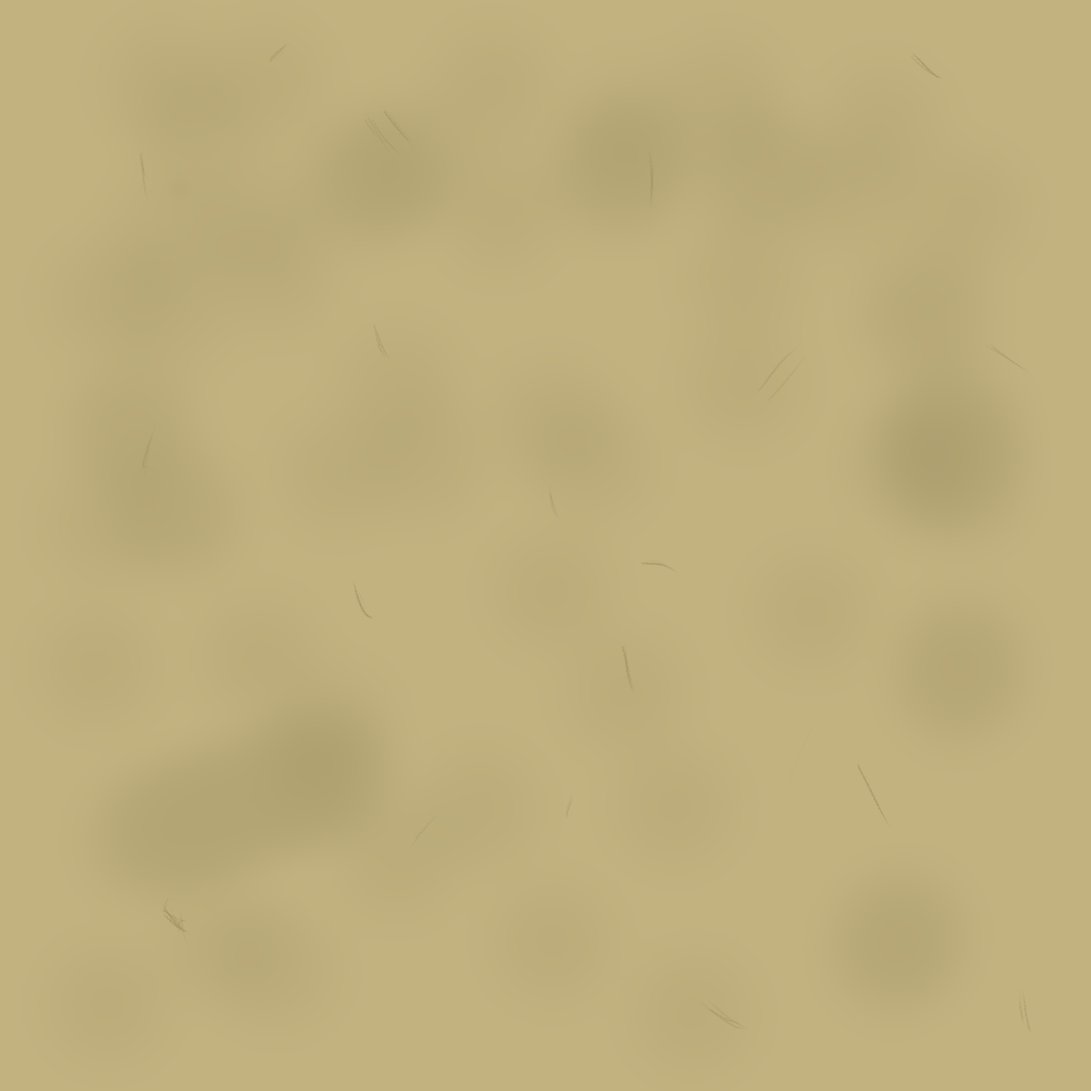
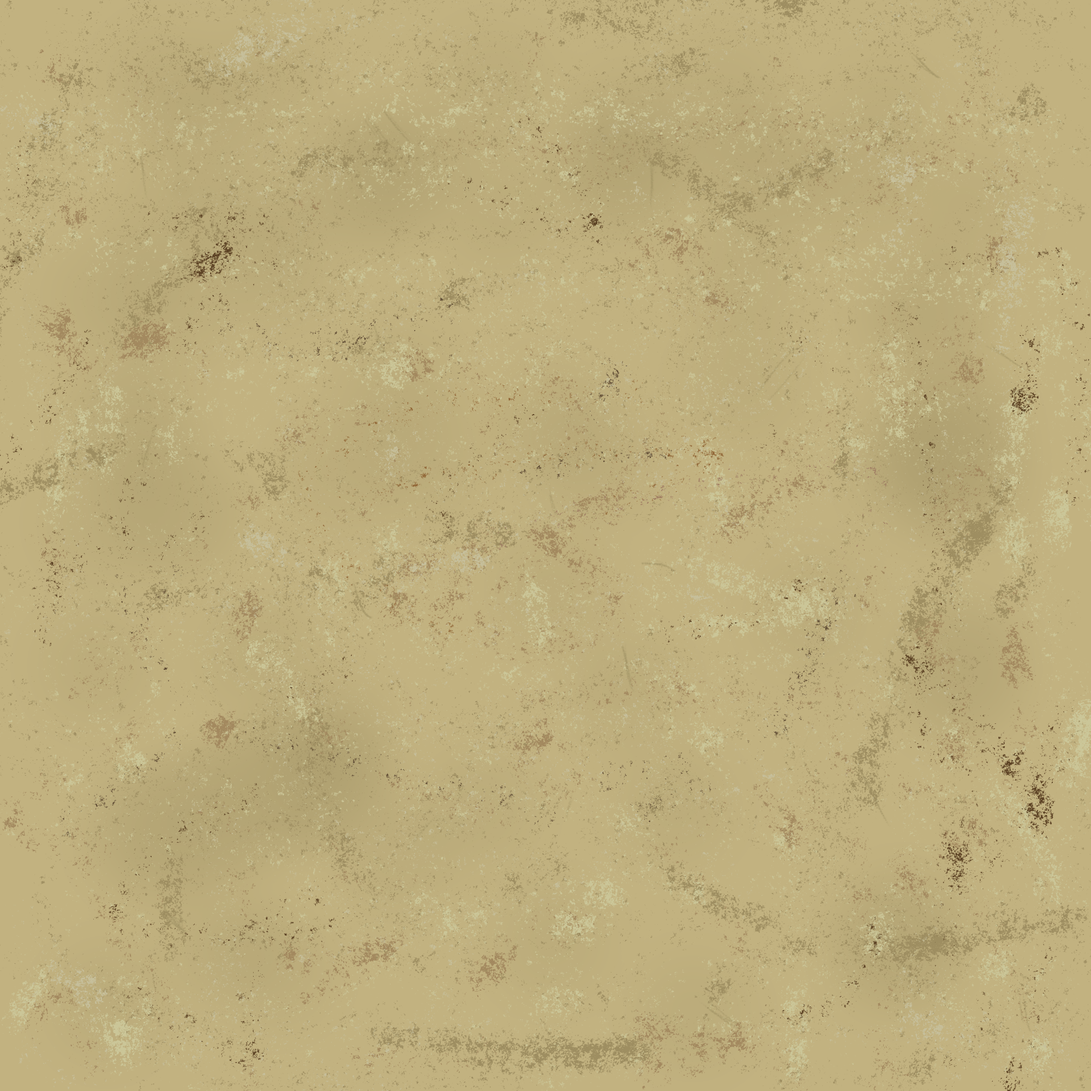
Added floor plane in place of tiles

diff --git a/TreasureLabyrinth/Assets/Scripts/GridMovement.cs b/TreasureLabyrinth/Assets/Scripts/GridMovement.cs
@@ -60,7 +60,7 @@ public class GridMovement : MonoBehaviour
     {
         isMoving = true;
 
-        Vector3 targetWorldPos = new Vector3(targetGridPos.x, targetGridPos.y, -1f);
+        Vector3 targetWorldPos = new Vector3(targetGridPos.x, targetGridPos.y, 0f);
 
         while (Vector3.Distance(transform.position, targetWorldPos) > 0.01f)
         {
